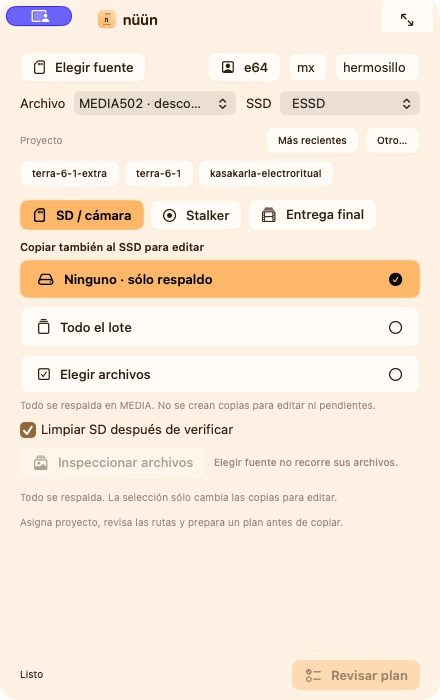
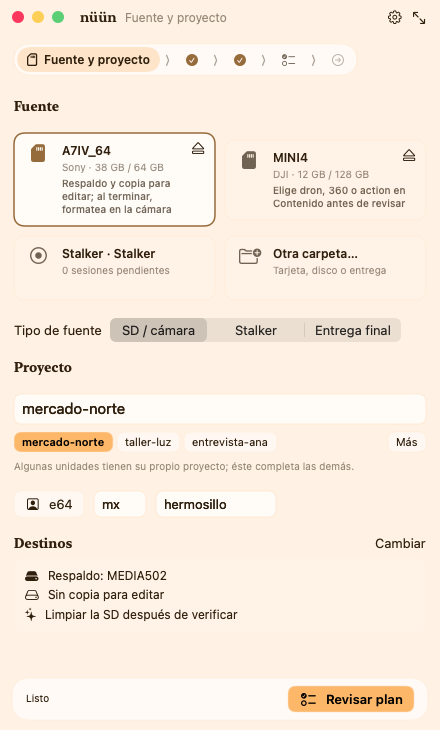
better ui

diff --git a/native/MediaMenu/Sources/MediaMenu/QASnapshots.swift b/native/MediaMenu/Sources/MediaMenu/QASnapshots.swift
@@ -103,6 +103,11 @@ import MediaMenuCore
             await render(WindowTopBar(model: model), size: NSSize(width: width, height: 30), to: folder.appendingPathComponent("topbar-\(Int(width)).png"))
         }
         await render(SettingsView(model: model), size: NSSize(width: 760, height: 600), to: folder.appendingPathComponent("settings.png"))
+        // README image: compact window, fixture data only (no real libraries, sessions or paths).
+        model.captureRoots = ["/Users/demo/Stalker"]; model.pendingCaptures = []; model.captureSessions = []
+        if model.units.count > 1 { model.units[1].camera = "dji-drone" }
+        model.gridSelection = []; model.error = ""; model.route = .ingest; model.presentation = .compact; model.ingestStep = .source
+        await render(ReadmeFrame(model: model), size: NSSize(width: 440, height: 730), to: folder.appendingPathComponent("readme-compact.png"))
         print("QA snapshots written to \(folder.path)")
         NSApp.terminate(nil)
     }
@@ -150,6 +155,20 @@ import MediaMenuCore
         NSApp.terminate(nil)
     }
 
+    struct ReadmeFrame: View {
+        let model: Model
+        @Environment(\.creatorPalette) private var palette
+        var body: some View {
+            VStack(spacing: 0) {
+                HStack(spacing: 8) {
+                    ForEach([Color.red, .yellow, .green], id: \.self) { Circle().fill($0.opacity(0.85)).frame(width: 12, height: 12) }
+                    WindowTopBar(model: model).frame(height: 30)
+                }.padding(.horizontal, 12).frame(height: 34)
+                WindowRoot(model: model)
+            }
+        }
+    }
+
     static func fullscreen(_ delegate: AppDelegate) async {
         delegate.show()
         try? await Task.sleep(for: .seconds(1))
@@ -162,6 +181,11 @@ import MediaMenuCore
             print("QA \(label): fullscreen=\(window.styleMask.contains(.fullScreen)) toolbarVisible=\(window.toolbar?.isVisible ?? false) barWindowVisible=\(barWindow?.isVisible ?? false) barOnScreen=\(barWindow?.occlusionState.contains(.visible) ?? false) barFrame=\(frame) screen=\(window.screen?.frame ?? .zero) options=\(NSApp.currentSystemPresentationOptions.rawValue) autoHideToolbar=\(NSApp.currentSystemPresentationOptions.contains(.autoHideToolbar))")
         }
         report("windowed")
+        func dump(_ view: NSView, _ depth: Int) {
+            print("QA tree " + String(repeating: "  ", count: depth) + String(describing: type(of: view)) + " \(view.frame)")
+            if depth < 6 { view.subviews.forEach { dump($0, depth + 1) } }
+        }
+        if let viewer = window.toolbar?.items.first?.view?.superview { dump(viewer.superview ?? viewer, 0) }
         window.toggleFullScreen(nil)
         try? await Task.sleep(for: .seconds(3))
         report("fullscreen")

diff --git a/native/MediaMenu/Sources/MediaMenu/Presentation.swift b/native/MediaMenu/Sources/MediaMenu/Presentation.swift
@@ -34,7 +34,7 @@ struct AppNavigation: View {
                     }
                     .font(.callout.weight(model.route == route ? .semibold : .regular))
                     .padding(.horizontal, compact ? 8 : 10).padding(.vertical, 4)
-                    .background(model.route == route ? palette.card : .clear, in: RoundedRectangle(cornerRadius: 7))
+                    .background(model.route == route ? palette.accent.opacity(0.32) : .clear, in: Capsule())
                     .contentShape(Rectangle())
                 }
                 .buttonStyle(.plain)
@@ -44,7 +44,7 @@ struct AppNavigation: View {
             }
         }
         .padding(2)
-        .background(palette.inset.opacity(0.55), in: RoundedRectangle(cornerRadius: 9))
+        .modifier(GlassSurface(shape: Capsule()))
     }
     private var attention: Int { model.cardSuggestions.count + (model.pendingCaptures.isEmpty ? 0 : 1) }
 }
@@ -56,7 +56,7 @@ struct WindowTopBar: View {
         GeometryReader { geometry in
             HStack(spacing: 8) {
                 Text("nüün").font(.system(size: 14, weight: .semibold, design: .serif))
-                    .padding(.leading, 4).help(model.message)
+                    .padding(.leading, 8).help(model.message)
                 if model.presentation == .full {
                     Spacer(minLength: 4)
                     AppNavigation(model: model, compact: geometry.size.width < 760)
@@ -141,11 +141,12 @@ struct ActionFooter<Content: View>: View {
     let content: Content
     init(@ViewBuilder content: () -> Content) { self.content = content() }
     var body: some View {
+        // A floating bar: content scrolls underneath it (glass on macOS 26, opaque before).
         HStack(spacing: 9) { content }
-            .padding(.horizontal, 20).padding(.vertical, 10)
+            .padding(.horizontal, 14).padding(.vertical, 8)
             .frame(maxWidth: .infinity, alignment: .leading)
-            .background(palette.canvas.opacity(0.98))
-            .overlay(alignment: .top) { Rectangle().fill(palette.border.opacity(0.8)).frame(height: 1) }
+            .modifier(GlassSurface(shape: RoundedRectangle(cornerRadius: 16)))
+            .padding(.horizontal, 12).padding(.bottom, 10).padding(.top, 4)
     }
 }
 

diff --git a/native/MediaMenu/Sources/MediaMenu/IngestFlow.swift b/native/MediaMenu/Sources/MediaMenu/IngestFlow.swift
@@ -13,7 +13,6 @@ struct IngestFlow: View {
     var body: some View {
         VStack(alignment: .leading, spacing: 0) {
             StepBar(model: model, compact: compact).padding(.horizontal, compact ? 14 : 20).padding(.vertical, 10)
-            Divider().opacity(0.5)
             if model.ingestStep == .content {
                 // The grid scrolls by itself and takes the remaining height.
                 VStack(alignment: .leading, spacing: 12) {
@@ -70,16 +69,17 @@ struct StepBar: View {
                     }
                     .font(.callout.weight(current ? .semibold : .regular))
                     .padding(.horizontal, 9).padding(.vertical, 5)
-                    .background(current ? palette.card : .clear, in: Capsule())
-                    .overlay(Capsule().stroke(current ? palette.border : .clear))
+                    .background(current ? palette.accent.opacity(0.32) : .clear, in: Capsule())
                     .contentShape(Capsule())
                 }
                 .buttonStyle(.plain)
                 .disabled(model.ingestLocked || (step == .run && model.lastResult == nil && !model.busy))
                 if step != .run { Image(systemName: "chevron.compact.right").foregroundStyle(palette.muted.opacity(0.6)) }
             }
-            Spacer(minLength: 0)
         }
+        .padding(3)
+        .modifier(GlassSurface(shape: Capsule()))
+        .frame(maxWidth: .infinity, alignment: .leading)
     }
 }
 

diff --git a/native/MediaMenu/Sources/MediaMenu/Appearance.swift b/native/MediaMenu/Sources/MediaMenu/Appearance.swift
@@ -103,6 +103,27 @@ struct CreatorTextFieldStyle: TextFieldStyle {
     }
 }
 
+/// Liquid Glass on macOS 26 for floating controls; the same shape stays opaque on earlier systems.
+struct GlassSurface<S: Shape>: ViewModifier {
+    let shape: S
+    /// Glass is composited by the window server; offscreen QA renders draw the fallback instead.
+    static var offscreenQA: Bool {
+        #if DEBUG
+        CommandLine.arguments.contains("--qa-snapshots")
+        #else
+        false
+        #endif
+    }
+    @Environment(\.creatorPalette) private var palette
+    func body(content: Content) -> some View {
+        if #available(macOS 26.0, *), !GlassSurface<Rectangle>.offscreenQA {
+            content.glassEffect(.regular.tint(palette.canvas.opacity(0.35)), in: shape)
+        } else {
+            content.background(palette.card.opacity(0.95), in: shape).overlay(shape.stroke(palette.border.opacity(0.5)))
+        }
+    }
+}
+
 struct CreatorListSurface: ViewModifier {
     @Environment(\.creatorPalette) private var palette
     func body(content: Content) -> some View {

diff --git a/native/MediaMenu/Sources/MediaMenu/Application.swift b/native/MediaMenu/Sources/MediaMenu/Application.swift
@@ -79,6 +79,7 @@ private extension NSToolbarItem.Identifier {
         toolbar.allowsUserCustomization = false
         value.toolbar = toolbar
         value.toolbarStyle = .unifiedCompact
+        value.titlebarSeparatorStyle = .none
         value.center()
         return value
     }
@@ -95,6 +96,8 @@ private extension NSToolbarItem.Identifier {
                                      bar.widthAnchor.constraint(lessThanOrEqualToConstant: 10000)])
         item.view = bar
         item.visibilityPriority = .high
+        // macOS 26 wraps custom view items in one large glass platter; the bar places its own glass.
+        item.isBordered = false
         return item
     }
     func present(_ mode: WindowMode) {

diff --git a/docs/features/nuun-window.md b/docs/features/nuun-window.md
@@ -28,7 +28,7 @@ Stalker muestra preview del video de pantalla, fecha, duración y pistas cuando 
 
 En lotes Stalker, el proyecto del lote queda como fallback para sesiones sin proyecto. Si todas ya tienen uno, el campo global puede quedar vacío; el resumen enumera los proyectos/rutas incluidos. Las tarjetas ponen fecha, duración, pistas y perfil sobre el video para ahorrar altura; proyecto asignado queda en una línea con lápiz, y las sugerencias rápidas aparecen en la sesión sin asignar o al editarla. Cambiar asignaciones invalida un plan revisado.
 
-La barra superior es un `NSToolbar` nativo (estilo compacto unificado) en el mismo renglón que los controles de la ventana: nombre, pestañas Inicio/Ingreso/Biblioteca/Actividad/Espacio en completo (sólo iconos en anchos pequeños), ajustes y control de modo. En pantalla completa la ventana pide ocultar sólo la barra de menús, no la toolbar, así que las pestañas siguen visibles sin revelar la barra de menús (corrige el reporte del 2026-10-29). Ajustes es una ventana propia (⌘,). Atajos: ⌘1…⌘5 pestañas, ⌘\\ modo, ⌘[ / ⌘] pasos, ⌘R revisar plan, ⌘↩ ejecutar (con confirmación), ⌘E expulsar, ⌘N nueva ingesta. Cada modo recuerda su último marco mientras quepa en pantalla. La revisión con estado aislado no sustituye la matriz de pantallas/Spaces/accesibilidad.
+La barra superior es un `NSToolbar` nativo (estilo compacto unificado) en el mismo renglón que los controles de la ventana: nombre, pestañas Inicio/Ingreso/Biblioteca/Actividad/Espacio en completo (sólo iconos en anchos pequeños), ajustes y control de modo. En pantalla completa la ventana pide ocultar sólo la barra de menús, no la toolbar, así que las pestañas siguen visibles sin revelar la barra de menús (corrige el reporte del 2026-10-29). En macOS 26 el ítem no usa la burbuja automática de la toolbar; las pestañas, la barra de pasos y los pies de acción flotantes usan Liquid Glass y en macOS 14–15 superficies opacas. Ajustes es una ventana propia (⌘,). Atajos: ⌘1…⌘5 pestañas, ⌘\\ modo, ⌘[ / ⌘] pasos, ⌘R revisar plan, ⌘↩ ejecutar (con confirmación), ⌘E expulsar, ⌘N nueva ingesta. Cada modo recuerda su último marco mientras quepa en pantalla. La revisión con estado aislado no sustituye la matriz de pantallas/Spaces/accesibilidad.
 
 ## Ingreso por pasos (2026-10-29)
 

diff --git a/README.md b/README.md
@@ -6,9 +6,9 @@ nüün es la app para macOS de este repositorio, `n-creator-utils`. Hoy su área
 
 > **En desarrollo.** El motor de media y la app tienen pruebas y una instalación local de desarrollo, pero aún faltan validación física, endurecimiento y distribución. Consulta el [estado actual](docs/STATUS.md) y los [requisitos para una release](docs/release.md).
 
-<img src="docs/images/nuun-compacto.png" alt="Vista compacta de ingreso de nüün" width="440">
+<img src="docs/images/nuun-compacto.png" alt="Vista compacta de nüün en el paso Fuente y proyecto, con tarjetas SD sugeridas, proyecto y resumen de destinos" width="440">
 
-*La vista compacta permite preparar el ingreso y revisar las opciones de respaldo.*
+*Ingreso por pasos en la vista compacta: eliges la tarjeta, nombras el proyecto y revisas el plan. Datos de ejemplo.*
 
 ## Media y almacenamiento
 
@@ -19,7 +19,7 @@ Desde nüün o la CLI puedes revisar una fuente, asignar archivos a proyectos y 
 - **Biblioteca y espacio:** consulta el catálogo, recupera o entrega archivos, revisa pendientes y prepara auditorías y planes de liberación de espacio.
 - **Capturas Stalker:** reúne sesiones finalizadas en una bandeja, conserva sus bundles completos y permite asignarlas a proyectos. La liberación del original depende de las verificaciones y de las dependencias de edición.
 
-La app ofrece modos compacto, selección y completo, con vista previa de archivos, actividad, biblioteca y ajustes. La CLI y la app usan el mismo motor de planificación y transferencia.
+La app ofrece modos compacto, selección y completo con un ingreso por pasos (fuente y proyecto, contenido, destinos, revisión y copia), asignación por lotes, vista previa de archivos, actividad, biblioteca y ajustes, en español e inglés. La CLI y la app usan el mismo motor de planificación y transferencia.
 
 [Conocer la app](docs/features/nuun-window.md) · [Guía de uso y almacenamiento](docs/operations.md) · [Política de copias](docs/features/replication-policy.md)
 

diff --git a/docs/STATUS.md b/docs/STATUS.md
@@ -2,6 +2,29 @@
 
 Updated: 2026-10-29, America/Hermosillo. Current contract closure is recorded below; entries describe their own snapshots/builds. Check Git status and HEAD before resuming. It is **not a production release**. [Next priorities](../PLAN.md), [release gates](release.md).
 
+## Barra superior y Liquid Glass · 2026-10-29
+
+El usuario reportó en macOS 26.5 que la barra quedaba dentro de una burbuja de vidrio
+grande (con borde oscuro y sombra en fullscreen). Causa confirmada en la jerarquía:
+macOS 26 envuelve los ítems de toolbar con vista propia en `NSToolbarPlatterView` +
+`NSGlassEffectView`. Corrección: `isBordered = false` en el ítem (la jerarquía ya no
+tiene platter), sin separador de titlebar y más margen para el nombre. El vidrio se
+aplica a propósito con `GlassSurface`: pestañas, barra de pasos y pies de acción
+flotantes; en macOS 14–15 cae a superficies opacas. Plurales es/en con
+`Localizable.stringsdict` (verificado: «1 operación requiere atención» / «1 operation
+needs attention»).
+
+Evidencia: `swift test` 10/10, `test_media_snapshot` + `test_media_install` 10/10,
+`check_localization.py` 418 claves sin faltantes, `--qa-fullscreen` con la barra
+visible en fullscreen y sin platter. Instalada la build release **`7a8069ed3042`**
+(`/private/tmp/nuun-glass-20261029-7534.app`, firma verificada, binario idéntico;
+anterior en `app-backups/f046a6f7.app`); la instancia abierta sólo tenía su lector
+`rpc-serve`, se cerró y se reabrió. Después de instalar sólo cambió
+`QASnapshots.swift` (sólo debug, para la imagen del README), por eso el fingerprint
+del árbol ya no coincide con ese build ID. El vidrio real no se puede renderizar fuera
+de pantalla: su aspecto queda a aceptación visual del usuario. La captura
+`docs/images/nuun-compacto.png` se regeneró con ese render y datos de ejemplo.
+
 ## Implementación de la revisión · 2026-10-29
 
 Implementado en working tree sobre `f3d1651` (sin commit) a partir de la
